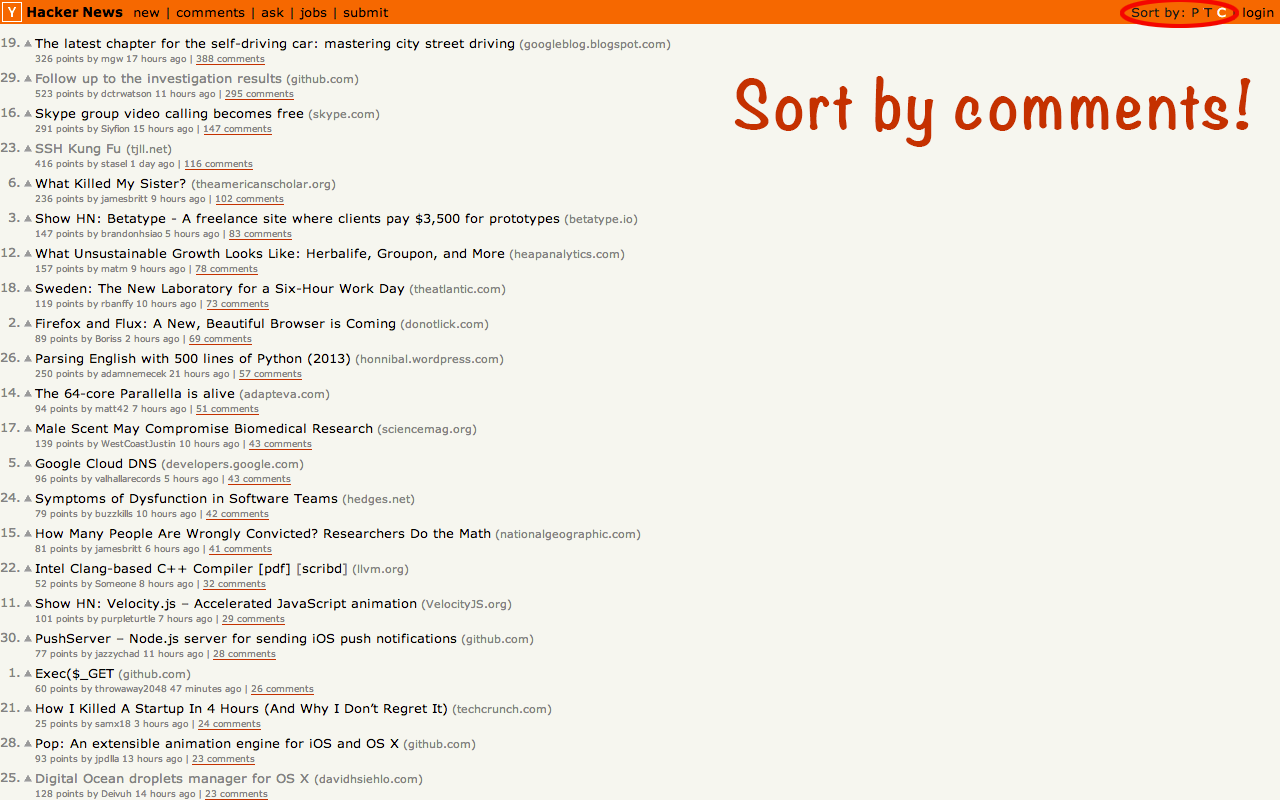
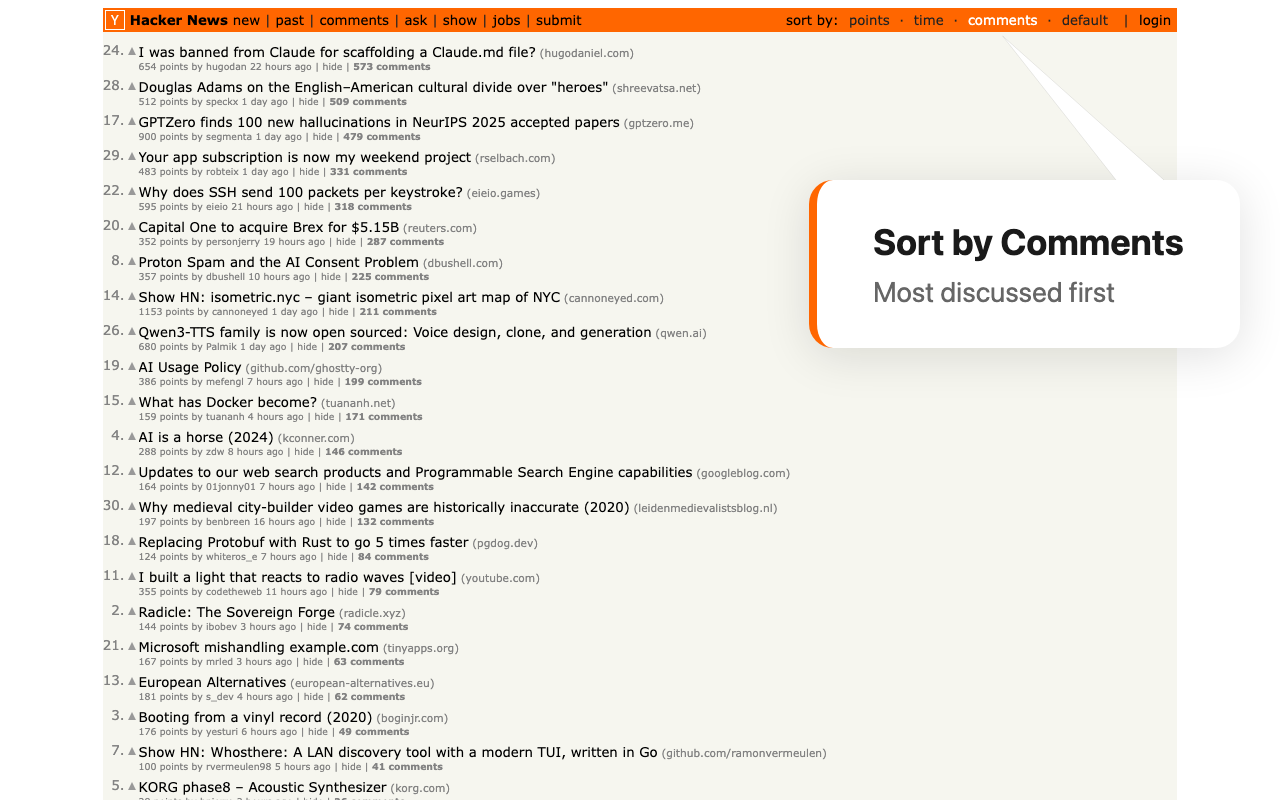
feat: add Playwright screenshot generator for Chrome Web Store
Add a script that generates 5 professional screenshots (1280x800) by
injecting built extension assets into the live HN page and capturing
each sort state with an explanatory overlay card and speech-bubble pointer.

- Create scripts/generate-screenshots.ts using Playwright
- Centralize CSS classes (HNS_CLASSES) and sort options (SORT_OPTIONS) in constants
- Add data-sort attribute to SortButton for Playwright targeting
- Add playwright devDependency and screenshots script

diff --git a/scripts/generate-screenshots.ts b/scripts/generate-screenshots.ts
@@ -1,0 +1,199 @@
+import { readdirSync } from 'fs';
+import path from 'path';
+import { chromium } from 'playwright';
+
+import { CONTROL_PANEL_ROOT_ID, HNS_CLASSES } from '~app/constants';
+import type { SortVariant } from '~app/types';
+
+// @ts-expect-error Bun-specific API
+const ROOT_DIR = path.resolve(import.meta.dir, '..');
+const SCREENSHOTS_DIR = path.join(ROOT_DIR, 'images');
+const BUILD_DIR = path.join(ROOT_DIR, 'build/chrome-mv3-prod');
+
+// Find built assets (filenames contain content hashes)
+const buildFiles = readdirSync(BUILD_DIR);
+const cssFile = buildFiles.find((f) => f.startsWith('content.') && f.endsWith('.css'));
+const jsFile = buildFiles.find((f) => f.startsWith('content.') && f.endsWith('.js'));
+if (!cssFile || !jsFile) throw new Error('Built assets not found. Run `bun run build` first.');
+
+const CSS_PATH = path.join(BUILD_DIR, cssFile);
+const JS_PATH = path.join(BUILD_DIR, jsFile);
+
+type VariantConfig = {
+  sort: SortVariant;
+  title: string;
+  subtitle: string;
+  filename: string;
+  forceCompact?: boolean;
+};
+
+const VARIANTS: VariantConfig[] = [
+  { sort: 'points', title: 'Sort by Points', subtitle: 'Highest voted posts first', filename: 'screen_by_points.png' },
+  { sort: 'time', title: 'Sort by Time', subtitle: 'Newest posts first', filename: 'screen_by_time.png' },
+  {
+    sort: 'comments',
+    title: 'Sort by Comments',
+    subtitle: 'Most discussed first',
+    filename: 'screen_by_comments.png',
+  },
+  {
+    sort: 'default',
+    title: 'Default Order',
+    subtitle: "Back to HN's original ranking",
+    filename: 'screen_by_default.png',
+  },
+  {
+    sort: 'default',
+    title: 'Compact Mode',
+    subtitle: 'Keyboard shortcuts on smaller screens',
+    filename: 'screen_responsive.png',
+    forceCompact: true,
+  },
+];
+
+async function main() {
+  const browser = await chromium.launch();
+  const context = await browser.newContext({ viewport: { width: 1280, height: 800 } });
+  const page = await context.newPage();
+
+  await page.goto('https://news.ycombinator.com', { waitUntil: 'networkidle' });
+
+  // Inject built extension assets
+  await page.addStyleTag({ path: CSS_PATH });
+  await page.addScriptTag({ path: JS_PATH });
+
+  // Wait for the control panel to be rendered by the extension
+  await page.waitForSelector(`#${CONTROL_PANEL_ROOT_ID}`, { timeout: 5000 });
+
+  for (const variant of VARIANTS) {
+    // Remove previous overlay and arrow
+    await page.evaluate(() => {
+      document.querySelector('#hns-screenshot-overlay')?.remove();
+      document.querySelector('#hns-screenshot-arrow')?.remove();
+      document.querySelector('#hns-compact-override')?.remove();
+    });
+
+    // Force compact mode if needed
+    if (variant.forceCompact) {
+      await page.addStyleTag({
+        content: `
+          #${CONTROL_PANEL_ROOT_ID} .${HNS_CLASSES.BTN_TEXT} { display: none !important; }
+          #${CONTROL_PANEL_ROOT_ID} .${HNS_CLASSES.BTN_SHORTCUT} { display: inline !important; }
+        `,
+      });
+      await page.evaluate(() => {
+        const styles = document.querySelectorAll('style');
+        const last = styles[styles.length - 1];
+        if (last) last.id = 'hns-compact-override';
+      });
+    }
+
+    // Click the sort button — the extension handles sorting and highlighting
+    await page.click(`#${CONTROL_PANEL_ROOT_ID} [data-sort="${variant.sort}"]`);
+
+    // Small delay for React to re-render
+    await page.waitForTimeout(100);
+
+    // Inject overlay card
+    await page.evaluate(
+      ({ title, subtitle }: { title: string; subtitle: string }) => {
+        const overlay = document.createElement('div');
+        overlay.id = 'hns-screenshot-overlay';
+        overlay.style.cssText = [
+          'position: fixed',
+          'top: 33%',
+          'right: 40px',
+          'transform: translateY(-50%)',
+          'background: #fff',
+          'border-radius: 24px',
+          'box-shadow: 0 8px 48px rgba(0,0,0,0.12)',
+          'border-left: 8px solid #ff6600',
+          'padding: 40px 56px',
+          'z-index: 9999',
+          "font-family: -apple-system, BlinkMacSystemFont, 'Segoe UI', Roboto, sans-serif",
+          'max-width: 560px',
+        ].join('; ');
+
+        const titleEl = document.createElement('div');
+        titleEl.style.cssText = 'font-size: 36px; font-weight: 700; color: #1a1a1a; margin-bottom: 12px;';
+        titleEl.textContent = title;
+        overlay.appendChild(titleEl);
+
+        const subtitleEl = document.createElement('div');
+        subtitleEl.style.cssText = 'font-size: 28px; font-weight: 400; color: #666;';
+        subtitleEl.textContent = subtitle;
+        overlay.appendChild(subtitleEl);
+
+        document.body.appendChild(overlay);
+      },
+      { title: variant.title, subtitle: variant.subtitle },
+    );
+
+    // Speech bubble tail pointing from card to the active button
+    const arrowTarget = variant.forceCompact
+      ? `#${CONTROL_PANEL_ROOT_ID}`
+      : `#${CONTROL_PANEL_ROOT_ID} [data-sort="${variant.sort}"]`;
+
+    await page.evaluate((selector: string) => {
+      const target = document.querySelector(selector) as HTMLElement;
+      const overlay = document.querySelector('#hns-screenshot-overlay') as HTMLElement;
+      if (!target || !overlay) return;
+
+      const targetRect = target.getBoundingClientRect();
+      const overlayRect = overlay.getBoundingClientRect();
+
+      const endX = targetRect.left + targetRect.width / 2;
+      const endY = targetRect.bottom + 10;
+
+      const startX = overlayRect.right - 100;
+      const startY = overlayRect.top;
+
+      const startWidth = 24;
+      const baseLeft = { x: startX - startWidth, y: startY };
+      const baseRight = { x: startX + startWidth, y: startY };
+
+      const svg = document.createElementNS('http://www.w3.org/2000/svg', 'svg');
+      svg.id = 'hns-screenshot-arrow';
+      svg.setAttribute('width', String(window.innerWidth));
+      svg.setAttribute('height', String(window.innerHeight));
+      svg.style.cssText = 'position: fixed; top: 0; left: 0; z-index: 10000; pointer-events: none;';
+
+      const fill = document.createElementNS('http://www.w3.org/2000/svg', 'path');
+      fill.setAttribute('d', `M ${baseLeft.x} ${baseLeft.y} L ${endX} ${endY} L ${baseRight.x} ${baseRight.y} Z`);
+      fill.setAttribute('fill', '#ffffff');
+      svg.appendChild(fill);
+
+      const borderLeft = document.createElementNS('http://www.w3.org/2000/svg', 'line');
+      borderLeft.setAttribute('x1', String(baseLeft.x));
+      borderLeft.setAttribute('y1', String(baseLeft.y));
+      borderLeft.setAttribute('x2', String(endX));
+      borderLeft.setAttribute('y2', String(endY));
+      borderLeft.setAttribute('stroke', 'rgba(0,0,0,0.08)');
+      borderLeft.setAttribute('stroke-width', '1');
+      svg.appendChild(borderLeft);
+
+      const borderRight = document.createElementNS('http://www.w3.org/2000/svg', 'line');
+      borderRight.setAttribute('x1', String(baseRight.x));
+      borderRight.setAttribute('y1', String(baseRight.y));
+      borderRight.setAttribute('x2', String(endX));
+      borderRight.setAttribute('y2', String(endY));
+      borderRight.setAttribute('stroke', 'rgba(0,0,0,0.08)');
+      borderRight.setAttribute('stroke-width', '1');
+      svg.appendChild(borderRight);
+
+      document.body.appendChild(svg);
+    }, arrowTarget);
+
+    const screenshotPath = path.join(SCREENSHOTS_DIR, variant.filename);
+    await page.screenshot({ path: screenshotPath });
+    console.log(`Saved: ${variant.filename}`);
+  }
+
+  await browser.close();
+  console.log('Done! All screenshots generated.');
+}
+
+main().catch((err) => {
+  console.error(err);
+  process.exit(1);
+});

diff --git a/app/components/ControlPanel.tsx b/app/components/ControlPanel.tsx
@@ -1,21 +1,15 @@
 import { Fragment, useCallback, useEffect, useMemo, useState, type ReactElement } from 'react';
 
 import SortButton from '~app/components/SortButton';
+import { HNS_CLASSES, SORT_OPTIONS } from '~app/constants';
 import { useKeyboardShortcuts } from '~app/hooks/useKeyboardShortcuts';
 import { useParsedRows } from '~app/hooks/useParsedRows';
-import type { SortOption, SortVariant } from '~app/types';
+import type { SortVariant } from '~app/types';
 import { updateTable } from '~app/utils/presenters';
 import { sortRows } from '~app/utils/sorters';
 import { getLastActiveSort, setLastActiveSort } from '~app/utils/storage';
 
-const sortOptions: SortOption[] = [
-  { sortBy: 'points', text: 'points', shortcut: 'P' },
-  { sortBy: 'time', text: 'time', shortcut: 'T' },
-  { sortBy: 'comments', text: 'comments', shortcut: 'C' },
-  { sortBy: 'default', text: 'default', shortcut: 'D' },
-];
-
-const sortOptionsCount = sortOptions.length - 1;
+const sortOptionsCount = SORT_OPTIONS.length - 1;
 
 const ControlPanel = (): ReactElement => {
   const [activeSort, setActiveSort] = useState<SortVariant>(() => getLastActiveSort());
@@ -42,16 +36,16 @@ const ControlPanel = (): ReactElement => {
 
   return (
     <>
-      <span className="hns-sort-by-label">sort by:</span>
+      <span className={HNS_CLASSES.SORT_BY_LABEL}>sort by:</span>
 
-      {sortOptions.map((option, index) => (
+      {SORT_OPTIONS.map((option, index) => (
         <Fragment key={option.sortBy}>
           <SortButton sortOption={option} activeSort={activeSort} setActiveSort={setActiveSort} />
           {index < sortOptionsCount && ' · '}
         </Fragment>
       ))}
 
-      <span className="hns-divider">|</span>
+      <span className={HNS_CLASSES.DIVIDER}>|</span>
     </>
   );
 };

diff --git a/app/components/SortButton.tsx b/app/components/SortButton.tsx
@@ -1,5 +1,6 @@
 import { useCallback, type ReactElement } from 'react';
 
+import { HNS_CLASSES } from '~app/constants';
 import type { SortOption, SortVariant } from '~app/types';
 import { setLastActiveSort } from '~app/utils/storage';
 
@@ -12,7 +13,7 @@ type ControlPanelButtonProps = {
 const SortButton = ({ sortOption, activeSort, setActiveSort }: ControlPanelButtonProps): ReactElement => {
   const { sortBy, text, shortcut } = sortOption;
   const isActive = activeSort === sortBy;
-  const cssClasses = `hns-btn${isActive ? ' hns-active' : ''}`;
+  const cssClasses = `${HNS_CLASSES.BTN}${isActive ? ` ${HNS_CLASSES.ACTIVE}` : ''}`;
 
   const updateActiveSort = useCallback(() => {
     if (isActive) return;
@@ -24,9 +25,10 @@ const SortButton = ({ sortOption, activeSort, setActiveSort }: ControlPanelButto
     <span
       onClick={updateActiveSort}
       className={cssClasses}
+      data-sort={sortBy}
       title={sortBy === 'default' ? 'Original sort order' : `Sort by ${sortBy}`}>
-      <span className="hns-btn-text">{text}</span>
-      <span className="hns-btn-shortcut">{shortcut}</span>
+      <span className={HNS_CLASSES.BTN_TEXT}>{text}</span>
+      <span className={HNS_CLASSES.BTN_SHORTCUT}>{shortcut}</span>
     </span>
   );
 };

diff --git a/app/constants.ts b/app/constants.ts
@@ -1,8 +1,28 @@
+import type { SortOption } from '~app/types';
+
 // Extension constants
 export const CONTROL_PANEL_ROOT_ID = 'hns-control-panel';
 export const LAST_ACTIVE_SORT_KEY = 'hns-last-active-sort';
 export const HIGHLIGHT_CLASS = 'hns-highlight';
 export const HIGHLIGHT_SELECTOR = `.${HIGHLIGHT_CLASS}`;
+
+// Extension CSS classes
+export const HNS_CLASSES = {
+  SORT_BY_LABEL: 'hns-sort-by-label',
+  BTN: 'hns-btn',
+  BTN_TEXT: 'hns-btn-text',
+  BTN_SHORTCUT: 'hns-btn-shortcut',
+  ACTIVE: 'hns-active',
+  DIVIDER: 'hns-divider',
+} as const;
+
+// Sort options configuration
+export const SORT_OPTIONS: SortOption[] = [
+  { sortBy: 'points', text: 'points', shortcut: 'P' },
+  { sortBy: 'time', text: 'time', shortcut: 'T' },
+  { sortBy: 'comments', text: 'comments', shortcut: 'C' },
+  { sortBy: 'default', text: 'default', shortcut: 'D' },
+];
 
 // HN DOM selectors and classes
 export const HN_SELECTORS = {
